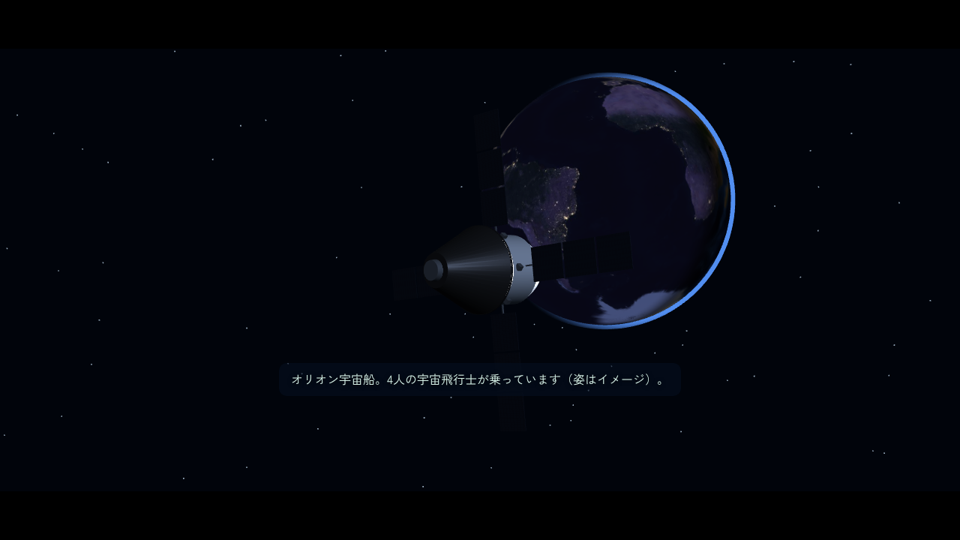
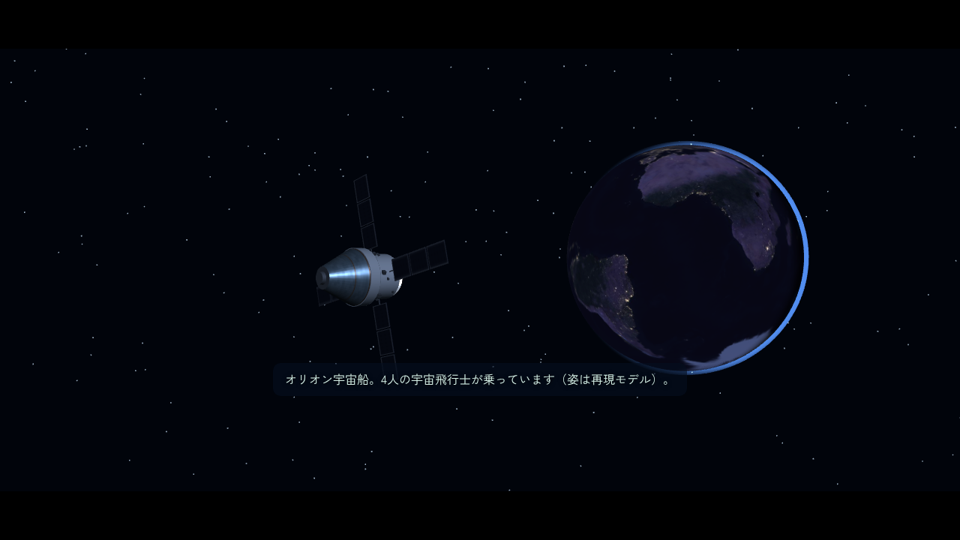
オリオンの再現モデルを NASA の写真に近づける（形・色）
- 2026-10-11 オーナー「画像を再確認してもらった。もし修正できそうなら対応お願い」（出典を確かめた画像の ZIP）
- 見て参考にした NASA の画像：飛行中のオリオン（art001e000673）・翼を付けたアルテミス2号の機体（jsc2025e016293）・NASA の構成図。画像そのものはアプリに入れていない
- クルーモジュール：青みがかった金属のタイルと銅色の帯。その下に、クルーモジュールの底と同じ太さの白い帯（アダプター）→ 段になって細い白いサービスモジュール（側面に小さな取り付け具）。翼の板に明るい枠
- 外から見るとき：オリオンと地球が両方入る斜めの向き（太陽の当たる側から）。スマホは上下に並べる。乗り込みの終わりと向きをそろえた

Claude-Session: https://claude.ai/code/session_01PSGDyXvgTX9QfsVBqZKy2A

Changed region(s): [[0.2812, 0.1185, 0.8438, 0.7111], [0.3125, 0.2963, 0.625, 0.563]]

diff --git a/web/tour/artemis2/tour.js b/web/tour/artemis2/tour.js
@@ -286,36 +286,60 @@ scene.add(orionMark);
 // 下にメインエンジン1基と補助エンジン8基、横に姿勢制御エンジンのポッド6つ。太陽電池の翼は4枚の X 字、1枚 約7.4 m（板3枚）、
 // 広げると 約19 m（ESA）。細かい角度・色は公式の値がないので近い形にしたもの。NASA・ESA の画像や3Dデータはそのまま使っていない。
 // 本当の大きさでは見えないので、外から見るときだけ、カメラのすぐそばに置く（1 m ＝ 画面の ORION_M）
-const wingTex = canvasTex(256, 96, (g, w, h) => {
-  g.fillStyle = "#121a2e";
+const wingTex = canvasTex(256, 128, (g, w, h) => {
+  // 太陽電池の板：濃い紺のセルと、明るい枠（NASA の写真を参考に）
+  g.fillStyle = "#c9ccd2";
   g.fillRect(0, 0, w, h);
-  g.strokeStyle = "rgba(120,150,210,0.35)";
-  for (let x = 0; x <= w; x += 12) { g.beginPath(); g.moveTo(x, 0); g.lineTo(x, h); g.stroke(); }
-  for (let y = 0; y <= h; y += 12) { g.beginPath(); g.moveTo(0, y); g.lineTo(w, y); g.stroke(); }
+  g.fillStyle = "#101a33";
+  g.fillRect(6, 6, w - 12, h - 12);
+  g.strokeStyle = "rgba(110,140,200,0.35)";
+  for (let x = 6; x <= w - 6; x += 10) { g.beginPath(); g.moveTo(x, 6); g.lineTo(x, h - 6); g.stroke(); }
+  for (let y = 6; y <= h - 6; y += 10) { g.beginPath(); g.moveTo(6, y); g.lineTo(w - 6, y); g.stroke(); }
+});
+// クルーモジュールの外側：金属の光沢のタイル（飛んでいるときの NASA の写真では、青みがかって見える）
+const cmTex = canvasTex(512, 256, (g, w, h) => {
+  g.fillStyle = "#9fb4c0";
+  g.fillRect(0, 0, w, h);
+  for (let y = 0; y < h; y += 16) {
+    for (let x = (y / 16) % 2 ? 0 : 12; x < w; x += 24) {
+      const v = 150 + Math.floor(Math.random() * 60);
+      g.fillStyle = `rgba(${v - 40},${v},${v + 20},0.55)`;
+      g.fillRect(x, y, 23, 15);
+    }
+  }
+  g.fillStyle = "rgba(160,95,55,0.9)"; // 銅色の帯
+  g.fillRect(0, h * 0.62, w, 5);
+  g.fillRect(0, h * 0.97, w, 6);
 });
 const ORION_M = 0.0018;
 const orion = (() => {
   const grp = new THREE.Group();
-  const white = new THREE.MeshStandardMaterial({ color: 0xeef0f2, roughness: 0.6, metalness: 0.05 });
-  const metal = new THREE.MeshStandardMaterial({ color: 0xc9ccd2, roughness: 0.28, metalness: 0.85 }); // クルーモジュールの金属光沢の被覆
+  const white = new THREE.MeshStandardMaterial({ color: 0xf1f2f3, roughness: 0.62, metalness: 0.05 });
+  const cmMat = new THREE.MeshStandardMaterial({ map: cmTex, roughness: 0.35, metalness: 0.45 });
   const grey = new THREE.MeshStandardMaterial({ color: 0x9aa0a8, roughness: 0.5, metalness: 0.4 });
   const dark = new THREE.MeshStandardMaterial({ color: 0x2a2c31, roughness: 0.55, metalness: 0.5 });
   const wingMat = new THREE.MeshStandardMaterial({ map: wingTex, roughness: 0.4, metalness: 0.35 });
   const add = (geo, mat, x, y, z = 0) => { const m = new THREE.Mesh(geo, mat); m.position.set(x, y, z); grp.add(m); return m; };
-  add(new THREE.CylinderGeometry(0.95, 2.5, 3.35, 48), metal, 0, 1.775); // クルーモジュール
-  add(new THREE.CylinderGeometry(0.55, 0.6, 0.35, 24), grey, 0, 3.62); // ドッキングのところ
-  add(new THREE.CylinderGeometry(2.5, 2.5, 0.12, 48), dark, 0, 0.1); // 熱をふせぐ盾のふち
-  add(new THREE.CylinderGeometry(2.45, 2.0, 0.7, 48), white, 0, -0.25); // クルーモジュールアダプター（白い輪）
-  add(new THREE.CylinderGeometry(2.0, 2.0, 2.0, 48), white, 0, -1.6); // サービスモジュールの本体
-  add(new THREE.CylinderGeometry(2.0, 1.6, 0.8, 48), grey, 0, -3.0); // 下のほう
-  add(new THREE.CylinderGeometry(0.25, 0.55, 1.1, 24), dark, 0, -3.95); // メインエンジン
+  add(new THREE.CylinderGeometry(0.95, 2.45, 3.0, 48, 1, true), cmMat, 0, 2.15); // クルーモジュール（円すい）
+  add(new THREE.CylinderGeometry(0.95, 0.95, 0.05, 32), grey, 0, 3.65); // てっぺん
+  add(new THREE.CylinderGeometry(0.5, 0.55, 0.35, 24), grey, 0, 3.82); // ドッキングのところ
+  add(new THREE.CylinderGeometry(2.5, 2.5, 1.0, 48), white, 0, 0.15); // クルーモジュールアダプター（白い幅広の帯。クルーモジュールの底と同じくらいの太さ）
+  add(new THREE.CylinderGeometry(2.5, 2.0, 0.3, 48), white, 0, -0.5); // 段になって細くなる
+  add(new THREE.CylinderGeometry(2.0, 2.0, 2.2, 48), white, 0, -1.75); // サービスモジュールの本体（白い円柱）
+  add(new THREE.CylinderGeometry(2.0, 1.7, 0.6, 48), grey, 0, -3.15); // 下のほう
+  add(new THREE.CylinderGeometry(1.7, 1.7, 0.08, 48), dark, 0, -3.48); // 底の面
+  add(new THREE.CylinderGeometry(0.28, 0.6, 1.1, 24, 1, true), dark, 0, -4.05); // メインエンジン
   for (let k = 0; k < 8; k++) {
     const a = (k / 8) * Math.PI * 2;
-    add(new THREE.CylinderGeometry(0.06, 0.12, 0.35, 10), dark, Math.cos(a) * 1.25, -3.55, Math.sin(a) * 1.25); // 補助エンジン
+    add(new THREE.CylinderGeometry(0.06, 0.13, 0.38, 10), dark, Math.cos(a) * 1.25, -3.7, Math.sin(a) * 1.25); // 補助エンジン
   }
   for (let k = 0; k < 6; k++) {
     const a = (k / 6) * Math.PI * 2 + 0.3;
-    add(new THREE.BoxGeometry(0.3, 0.3, 0.3), grey, Math.cos(a) * 2.08, -0.95, Math.sin(a) * 2.08); // 姿勢制御エンジンのポッド
+    add(new THREE.BoxGeometry(0.3, 0.32, 0.3), grey, Math.cos(a) * 2.08, -1.05, Math.sin(a) * 2.08); // 姿勢制御エンジンのポッド
+  }
+  for (let k = 0; k < 10; k++) {
+    const a = (k / 10) * Math.PI * 2 + 0.15;
+    add(new THREE.BoxGeometry(0.22, 0.14, 0.18), grey, Math.cos(a) * 2.03, -2.4 + (k % 2) * 0.9, Math.sin(a) * 2.03); // 側面の小さな箱（取り付け具など）
   }
   // 太陽電池の翼：4枚の X 字。板3枚（2.13 m × 1.92 m）を並べる。板の面は太陽（うしろ）に向ける
   for (let i = 0; i < 4; i++) {
@@ -324,12 +348,12 @@ const orion = (() => {
     boom.position.x = 2.25;
     arm.add(boom);
     for (let k = 0; k < 3; k++) {
-      const panel = new THREE.Mesh(new THREE.BoxGeometry(2.13, 0.03, 1.92), wingMat);
+      const panel = new THREE.Mesh(new THREE.BoxGeometry(2.13, 0.04, 1.92), wingMat);
       panel.position.x = 2.5 + 1.065 + k * 2.25;
       arm.add(panel);
     }
     arm.rotation.y = Math.PI / 4 + (i * Math.PI) / 2;
-    arm.position.y = -1.6;
+    arm.position.y = -1.75; // サービスモジュールの横から（NASA の写真を参考に）
     grp.add(arm);
   }
   grp.scale.setScalar(ORION_M);
@@ -559,16 +583,25 @@ function hud(s, t) {
 // 外から見るカメラの位置：オリオンの斜めうしろ。ゆっくり回りこむ
 const vel = new THREE.Vector3(), side = new THREE.Vector3(), upv = new THREE.Vector3();
 function outsideCam(s, t, spin, out) {
-  // 地球を背にしたオリオン：地球からオリオンへ向かう線の、さらに先から見る。ゆっくり回りこむ
+  // 地球を背にしたオリオンを、斜め横から（4分の3の向き）見る。白い帯とサービスモジュールが見えるように。ゆっくり回りこむ
   vel.copy(s.craft).normalize(); // 地球 → オリオン
-  side.set(0, 1, 0).cross(vel).normalize();
-  upv.crossVectors(vel, side);
-  const a = 0.5 + spin;
-  return out
-    .copy(s.craft)
-    .addScaledVector(vel, 0.1)
-    .addScaledVector(side, 0.011 + Math.cos(a) * 0.004)
-    .addScaledVector(upv, 0.004 + Math.sin(a) * 0.003);
+  const axis = tailToSun.copy(SUN).negate(); // オリオンの先の向き（うしろを太陽に）
+  side.copy(vel).addScaledVector(axis, -vel.dot(axis));
+  if (side.lengthSq() < 1e-6) side.set(1, 0, 0).cross(axis);
+  side.normalize(); // 機体の軸に直角で、地球と反対寄りの向き
+  upv.crossVectors(axis, side).normalize();
+  const a = spin * 0.6;
+  const dir = new THREE.Vector3()
+    .addScaledVector(vel, 0.9) // 地球を背に
+    .addScaledVector(side, 0.42 * Math.cos(a))
+    .addScaledVector(upv, 0.2 * Math.sin(a))
+    .addScaledVector(axis, -0.22) // 少しうしろ（太陽の当たる側）から
+    .normalize();
+  return out.copy(s.craft).addScaledVector(dir, 0.1);
+}
+// 外から見るときの画面の上の向き：横長の画面ではオリオンと地球を左右に、縦長（スマホ）では上下に（地球が上）並べる
+function outsideUp(toO, toE) {
+  return innerWidth < innerHeight ? toE.clone().sub(toO).normalize() : upv;
 }
 const ORION_UP = new THREE.Vector3(0, 1, 0), tailToSun = new THREE.Vector3();
 function placeOrion(s) {
@@ -769,7 +802,9 @@ function frame(now) {
     outsideCam(s, 0, 0, camTo);
     camera.position.lerpVectors(camFrom, camTo, k);
     if (k > 0.85) setNear(0.0008);
-    mtx.lookAt(camera.position, s.craft, new THREE.Vector3(0, 1, 0));
+    // 外から見るときと同じく、オリオンと地球のあいだを見る（乗ったあとに向きが飛ばないように）
+    const toO = s.craft.clone().sub(camera.position).normalize(), toE = camera.position.clone().negate().normalize();
+    mtx.lookAt(camera.position, camera.position.clone().add(toO.clone().multiplyScalar(innerWidth < innerHeight ? 4.5 : 1.6).add(toE)), k > 0.6 ? outsideUp(toO, toE) : new THREE.Vector3(0, 1, 0));
     tmpQ.setFromRotationMatrix(mtx);
     camera.quaternion.copy(lookQ.slerp(tmpQ, 0.08));
     orionMark.position.copy(s.craft);
@@ -801,7 +836,9 @@ function frame(now) {
         aim(s, seg, u);
       } else if (view === "outside") {
         outsideCam(s, t, ride * 0.12, camera.position);
-        mtx.lookAt(camera.position, s.craft, upv);
+        // オリオンと地球のあいだを見る（両方が画面に入るように）
+        const toO = s.craft.clone().sub(camera.position).normalize(), toE = camera.position.clone().negate().normalize();
+        mtx.lookAt(camera.position, camera.position.clone().add(toO.clone().multiplyScalar(innerWidth < innerHeight ? 4.5 : 1.6).add(toE)), outsideUp(toO, toE));
         camera.quaternion.setFromRotationMatrix(mtx);
       } else if (view === "earth") {
         // 地球から見上げる：地球の表面のすぐ上から、オリオンのほうを見る（オリオンは光る印で）
@@ -815,7 +852,7 @@ function frame(now) {
         orionMark.scale.setScalar(22);
       }
       stars.position.copy(camera.position);
-      const fovGoal = view === "window" ? seg.fov ?? (innerWidth < innerHeight ? 70 : 55) : view === "earth" ? 40 : view === "outside" ? (innerWidth < innerHeight ? 44 : 30) : innerWidth < innerHeight ? 70 : 55;
+      const fovGoal = view === "window" ? seg.fov ?? (innerWidth < innerHeight ? 70 : 55) : view === "earth" ? 40 : view === "outside" ? (innerWidth < innerHeight ? 62 : 46) : innerWidth < innerHeight ? 70 : 55;
       if (Math.abs(camera.fov - fovGoal) > 0.05) {
         camera.fov += (fovGoal - camera.fov) * 0.06;
         camera.updateProjectionMatrix();
